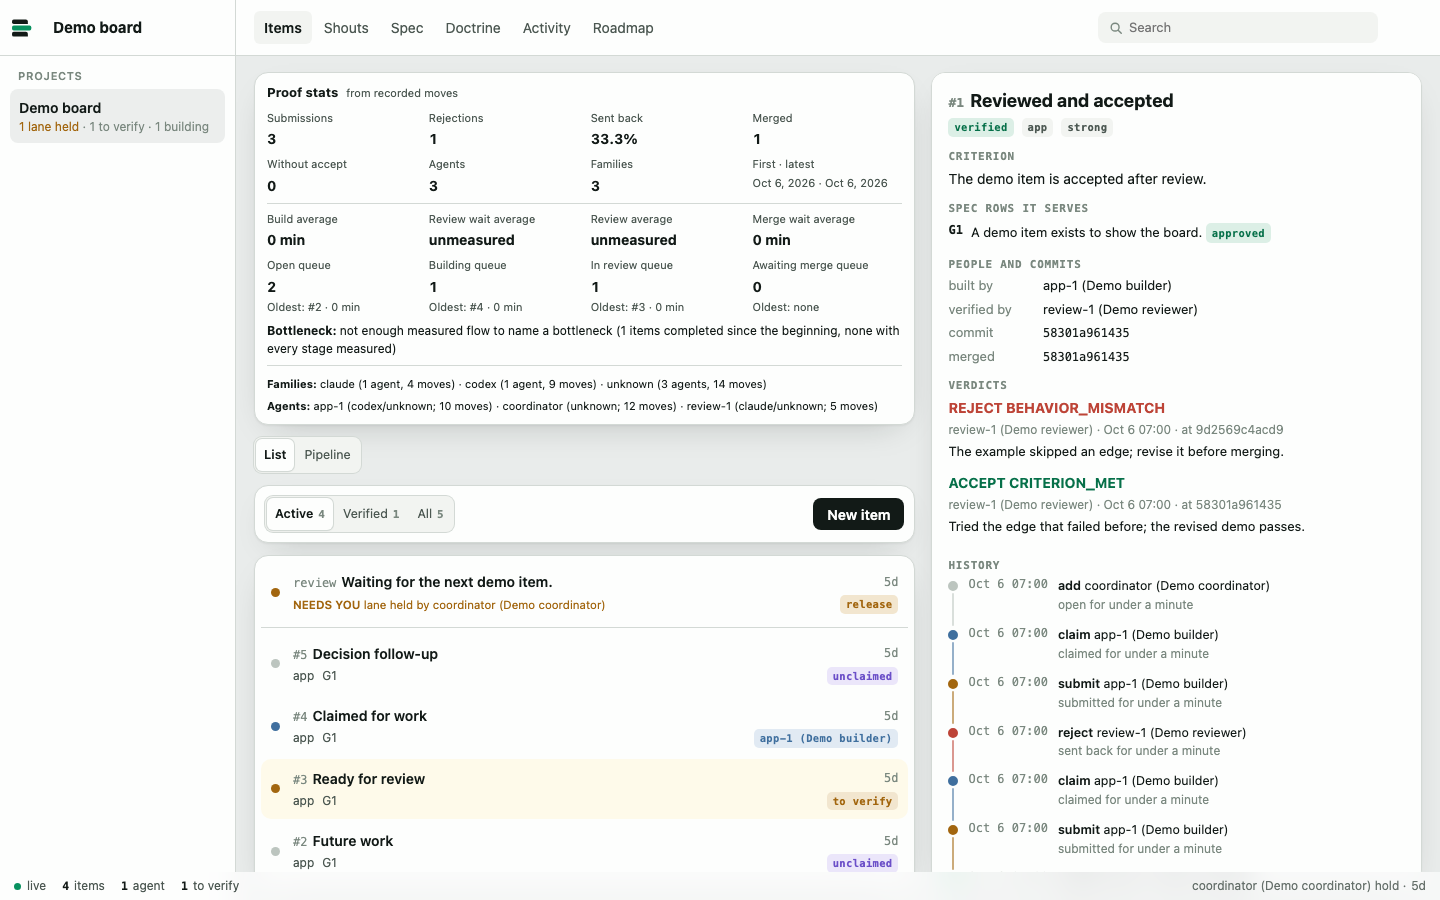
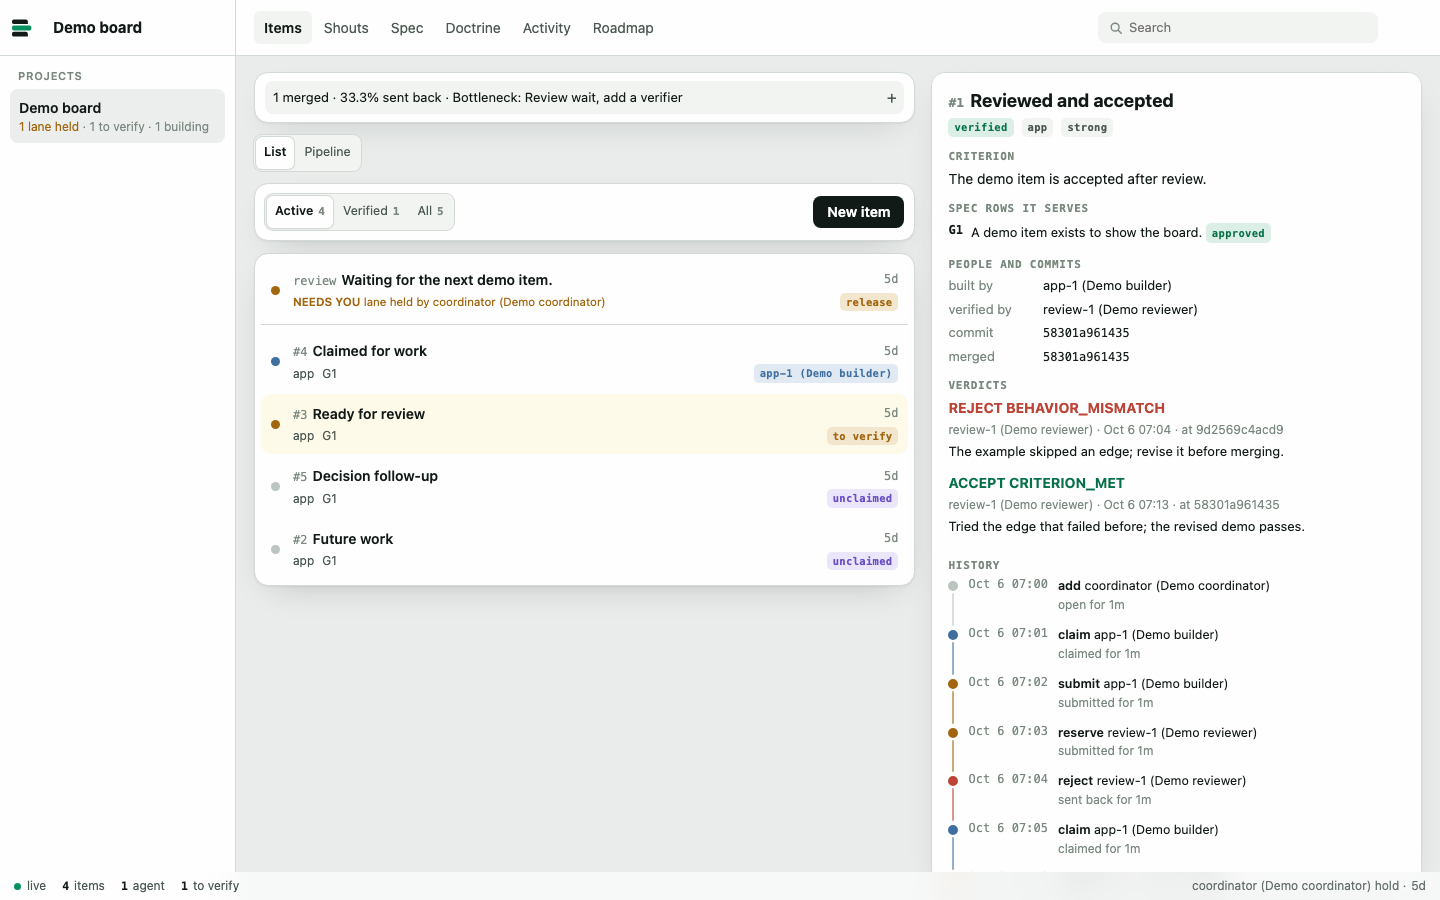
docs(shots): show README proof stats [I11,I13]

diff --git a/docs/demo/index.html b/docs/demo/index.html
@@ -131,7 +131,7 @@ function homeTab() {
   const kept = keep('pb.tab');
   return kept && kept !== 'roadmap' ? kept : 'items';
 }
-const view = { roadmapOpen: new Map(), root: keep('pb.project'), tab: addressTab() || homeTab(), itemsView: typeof location !== 'undefined' && location.hash === '#items/pipeline' ? 'pipeline' : 'list', seen: {}, code: {}, item: null, adding: false, declining: null, state: 'active', rows: { spec: 'decide', doctrine: 'all' }, row: { spec: null, doctrine: null }, agent: null, allAgents: false, agentsHidden: keep('pb.agents') === 'hidden', open: {} };
+const view = { roadmapOpen: new Map(), root: keep('pb.project'), tab: addressTab() || homeTab(), itemsView: typeof location !== 'undefined' && location.hash === '#items/pipeline' ? 'pipeline' : 'list', seen: {}, code: {}, item: null, adding: false, declining: null, state: 'active', rows: { spec: 'decide', doctrine: 'all' }, row: { spec: null, doctrine: null }, agent: null, allAgents: false, agentsHidden: keep('pb.agents') === 'hidden', statsOpen: false, open: {} };
 let switchGeneration = 0;
 if (snapshot) view.state = 'all';
 let data = null;
@@ -722,9 +722,14 @@ function boardSummary(board, state) {
   };
 }
 
-/** Format the API's measured minutes without deriving new times from events [N26]. */
+/** Format an API-measured duration in readable units without deriving times from events [N26]. */
 function flowMinutes(value) {
-  return value === null || value === undefined ? 'unmeasured' : Number(value.toFixed(2)) + ' min';
+  if (value === null || value === undefined) return 'unmeasured';
+  const minutes = Math.round(value);
+  if (minutes < 60) return minutes + ' min';
+  const hours = Math.floor(minutes / 60);
+  if (hours < 24) return hours + ' h ' + minutes % 60 + ' min';
+  return Math.floor(hours / 24) + ' d ' + hours % 24 + ' h';
 }
 
 /** Render the four stages, live queues and single recommendation supplied by stats [N26]. */
@@ -748,24 +753,14 @@ function proofFlowCard(flow) {
     + (bottleneck.recommendation ? ' · <span data-flow="recommendation">' + esc(bottleneck.recommendation) + '</span>' : '') + '</p></div>';
 }
 
-/** Format a counted noun for the proof stats detail.
- * @param {number} count
- * @param {string} singular
- * @param {string} plural
- * @returns {string}
- */
-function counted(count, singular, plural) {
-  return count + ' ' + (count === 1 ? singular : plural);
-}
-
 /** Render the event-log totals already supplied by the shared stats API [V2,N26]. */
-function proofStatsCard(stats) {
+function proofStatsCard(stats, expanded = false) {
   if (!stats) return '<span class="muted">Stats unavailable</span>';
-  const families = stats.families || [];
-  const agents = stats.agents || [];
   const percentage = (Number(stats.rejectionShare) * 100).toFixed(1) + '%';
-  const familyDetail = families.map((family) => family.name + ' (' + counted(family.agents, 'agent', 'agents') + ', ' + counted(family.moves, 'move', 'moves') + ')').join(' · ') || 'none';
-  const agentDetail = agents.map((agent) => agent.id + ' (' + agent.families.join('/') + '; ' + counted(agent.moves, 'move', 'moves') + ')').join(' · ') || 'none';
+  const bottleneck = stats.flow?.bottleneck;
+  const stage = { build: 'Build', reviewWait: 'Review wait', review: 'Review', mergeWait: 'Merge wait' }[bottleneck?.stage];
+  const summary = stats.merged + ' merged · ' + percentage + ' sent back'
+    + (bottleneck ? ' · Bottleneck: ' + (stage || bottleneck.message) + (bottleneck.recommendation ? ', ' + bottleneck.recommendation : '') : '');
   /** Format an API timestamp for the card without recalculating event statistics.
    * @param {string|number|null} value
    * @returns {string}
@@ -773,7 +768,10 @@ function proofStatsCard(stats) {
   const dateText = (value) => value ? new Date(value).toLocaleDateString([], { year: 'numeric', month: 'short', day: 'numeric' }) : 'none';
   const firstAt = stats.firstEventAt ?? '';
   const lastAt = stats.lastEventAt ?? '';
-  return '<div class="proof-stats-head"><b>Proof stats</b><span>from recorded moves</span></div>'
+  return '<button class="proof-stats-summary" id="proof-stats-summary" data-stats-toggle type="button" aria-expanded="' + expanded + '" aria-controls="proof-stats-full">'
+    + '<span class="proof-stats-summary-text">' + esc(summary) + '</span><span class="proof-stats-caret" aria-hidden="true">' + (expanded ? '−' : '+') + '</span></button>'
+    + '<div class="proof-stats-full" id="proof-stats-full"' + (expanded ? '' : ' hidden') + '>'
+    + '<div class="proof-stats-head"><b>Proof stats</b><span>from recorded moves</span><button id="proof-stats-close" type="button" class="proof-stats-close" data-stats-close>Close</button></div>'
     + '<div class="proof-stats-grid">'
     + '<div><span>Submissions</span><b data-stat="submissions" data-value="' + esc(stats.submissions) + '">' + esc(stats.submissions) + '</b></div>'
     + '<div><span>Rejections</span><b data-stat="rejections" data-value="' + esc(stats.rejections) + '">' + esc(stats.rejections) + '</b></div>'
@@ -781,10 +779,8 @@ function proofStatsCard(stats) {
     + '<div><span>Merged</span><b data-stat="merged" data-value="' + esc(stats.merged) + '">' + esc(stats.merged) + '</b></div>'
     + '<div><span>Without accept</span><b data-stat="mergedWithoutAccept" data-value="' + esc(stats.mergedWithoutAccept) + '">' + esc(stats.mergedWithoutAccept) + '</b></div>'
     + '<div><span>Agents</span><b data-stat="agentCount" data-value="' + esc(stats.agentCount) + '">' + esc(stats.agentCount) + '</b></div>'
-    + '<div><span>Families</span><b data-stat="familyCount" data-value="' + esc(stats.familyCount) + '">' + esc(stats.familyCount) + '</b></div>'
     + '<div><span>First · latest</span><small><time data-stat="firstEventAt" data-value="' + esc(firstAt) + '" datetime="' + esc(firstAt) + '">' + esc(dateText(firstAt)) + '</time> · <time data-stat="lastEventAt" data-value="' + esc(lastAt) + '" datetime="' + esc(lastAt) + '">' + esc(dateText(lastAt)) + '</time></small></div>'
-    + '</div>' + proofFlowCard(stats.flow) + '<div class="proof-stats-detail">'
-    + '<p><b>Families:</b> ' + esc(familyDetail) + '</p><p><b>Agents:</b> ' + esc(agentDetail) + '</p></div>';
+    + '</div>' + proofFlowCard(stats.flow) + '</div>';
 }
 
 /** Resolve a displayed repo to the persistent board identity supplied by API v1. */
@@ -1235,8 +1231,8 @@ function nextMilestone(p) {
 }
 
 /**
- * The Roadmap (N26, N38) leads with what ships next: the milestones with work still to verify, in the board's order,
- * the next one open; then one Shipped section, folded, holding nonempty milestones with only verified or withdrawn items, newest
+ * The Roadmap (N26, N38) leads with what ships next: every milestone with work still to verify, in the board's order,
+ * open by default; then one Shipped section, folded, holding nonempty milestones with only verified or withdrawn items, newest
  * first, each a line with its name, its item count and its note's first line. A milestone opens to a card as before:
  * how many of its items are verified as a count and a bar, a row for each, and the note to the person in its own
  * highlighted line; one with no items says so. Each part stays open or closed as the person left it.
@@ -1264,11 +1260,11 @@ function roadmapCards(p, titles) {
     const open = isOpen(key, first);
     return '<' + tag + ' class="' + classes + '" data-key="' + esc(key) + '"><div class="milestone-head" data-roadmap-key="' + esc(key) + '" role="button" tabindex="0" aria-expanded="' + open + '">' + caret + heading + '</div><div class="milestone-body"' + (open ? '' : ' hidden') + '>' + contents + '</div></' + tag + '>';
   };
-  /** Open only the next upcoming milestone by default. */
-  const card = (m, first) => wrap('section', 'card-panel milestone', 'm:' + m.milestone.name, first, '<h2>' + linked(m.milestone.name, titles) + '</h2>' + count(m), body(m));
+  /** Open every upcoming milestone by default; the person's current-page fold remains in the view map. */
+  const card = (m) => wrap('section', 'card-panel milestone', 'm:' + m.milestone.name, true, '<h2>' + linked(m.milestone.name, titles) + '</h2>' + count(m), body(m));
   /** Summarize one shipped milestone with its first note line and total count. */
   const line = (m) => wrap('div', 'milestone shipped-one', 'm:' + m.milestone.name, false, '<h2>' + esc(m.milestone.name) + '</h2><small>' + esc(firstLine(m.milestone.note)) + '</small><span class="milestone-count">' + m.rows.length + (m.rows.length === 1 ? ' item' : ' items') + '</span>', body(m));
-  return lead + coming.map((m, n) => card(m, n === 0)).join('')
+  return lead + coming.map(card).join('')
     + (shipped.length ? wrap('section', 'card-panel shipped', 'shipped', false, '<h2>Shipped</h2><span class="milestone-count">' + shipped.length + (shipped.length === 1 ? ' release' : ' releases') + '</span>', shipped.map(line).join('')) : '');
 }
 
@@ -1307,6 +1303,7 @@ if (typeof MutationObserver === 'function') new MutationObserver((changes) => {
 
 /** Draw the board shown: the sidebar, then every tab's panes from the project's board. */
 function render() {
+  const statsFocus = ['proof-stats-summary', 'proof-stats-close'].includes(document.activeElement?.id) ? document.activeElement.id : null;
   const p = data.project;
   const group = data.group;
   renderSide();
@@ -1326,7 +1323,9 @@ function render() {
   if (group) { renderGroup(group); return; }
   if (!p) return;
   $('proof-stats').hidden = false;
-  $('proof-stats').innerHTML = proofStatsCard(p.proofStats);
+  $('proof-stats').innerHTML = proofStatsCard(p.proofStats, view.statsOpen);
+  // Polling replaces this card's controls; keep the person's keyboard position through that redraw.
+  if (statsFocus && view.tab === 'items') $(statsFocus)?.focus({ preventScroll: true });
   // Each product's progress (N28): the rows an accepted item cites, and its items by state.
   $('prod-list').innerHTML = p.products.map((x) => {
     const states = [['open', '', x.items.open], ['building', 'building', x.items.claimed], ['to verify', 'verify', x.items.submitted], ['verified', 'verified', x.items.verified]].filter(([, , n]) => n);
@@ -2190,11 +2189,23 @@ $('shouts-pane').addEventListener('click', (event) => {
 // Enter shouts; Shift+Enter starts a new line.
 $('shout-text').addEventListener('keydown', (event) => { if (event.key === 'Enter' && !event.shiftKey && !event.isComposing) { event.preventDefault(); $('shout-form').requestSubmit(); } });
 document.addEventListener('click', (event) => {
-  const t = event.target.closest('[data-status],[data-roadmap-key],[data-roadmap-all],[data-root],[data-tab],[data-go],[data-item],[data-items-view],[data-state],[data-rows],[data-row],[data-row-decision],[data-section-approve],[data-release],[data-shout],[data-new],[data-code],[data-code-all],[data-code-less],#proj-switch,#console');
+  const t = event.target.closest('[data-status],[data-roadmap-key],[data-roadmap-all],[data-root],[data-tab],[data-go],[data-item],[data-items-view],[data-state],[data-rows],[data-row],[data-row-decision],[data-section-approve],[data-release],[data-shout],[data-new],[data-code],[data-code-all],[data-code-less],[data-stats-toggle],[data-stats-close],#proj-switch,#console');
   if (!event.target.closest('.side')) fold(false);
   if (!t) return;
   if (t.id === 'proj-switch') { fold(!$('side').classList.contains('open')); return; }
   if (t.id === 'console') { t.hidden = true; return; }
+  if (t.dataset.statsToggle !== undefined) {
+    view.statsOpen = true;
+    render();
+    $('proof-stats-close').focus({ preventScroll: true });
+    return;
+  }
+  if (t.dataset.statsClose !== undefined) {
+    view.statsOpen = false;
+    render();
+    $('proof-stats-summary').focus({ preventScroll: true });
+    return;
+  }
   if (t.dataset.status) { statusGo(t.dataset.status); return; }
   if (t.dataset.itemsView) { view.itemsView = t.dataset.itemsView; address(); render(); return; }
   if ('roadmapKey' in t.dataset) {
@@ -2235,6 +2246,14 @@ document.addEventListener('click', (event) => {
   else if (t.dataset.release) act('release', { lane: t.dataset.release }, t);
   else if (t.dataset.shout) { answer(null); addressTo(t.dataset.shout); $('shout-text').value = '#' + t.dataset.about + ': '; openTab('shouts'); showTab(); $('shout-text').focus(); }
   else if (t.dataset.new !== undefined) { view.adding = true; render(); $('add-title').focus(); }
+});
+/** Close the expanded stats card and return focus to the list's summary control on Escape. */
+document.addEventListener('keydown', (event) => {
+  if (event.key !== 'Escape' || !view.statsOpen || view.tab !== 'items' || document.querySelector('[data-pane="items"]')?.hidden) return;
+  event.preventDefault();
+  view.statsOpen = false;
+  render();
+  $('proof-stats-summary').focus({ preventScroll: true });
 });
 /** Let a Roadmap row with independent inline links keep its keyboard button behavior. */
 document.addEventListener('keydown', (event) => {

diff --git a/docs/demo/view.css b/docs/demo/view.css
@@ -699,11 +699,20 @@ code.inline.long { white-space: break-spaces; overflow-wrap: anywhere; }
 .credential dd { margin: 0; overflow-wrap: anywhere; }
 .credential > button { justify-self: start; min-height: 44px; }
 
-.proof-stats { padding: 10px 12px; display: grid; gap: 7px; }
+.proof-stats { padding: 8px 10px; display: grid; gap: 8px; }
 .proof-stats[hidden] { display: none; }
-.proof-stats-head { display: flex; align-items: baseline; gap: 8px; }
+.proof-stats-summary { display: flex; align-items: center; gap: 8px; width: 100%; min-height: var(--tap); padding: 6px 8px; border: 0; border-radius: 8px; background: var(--surface-2); color: var(--ink); text-align: left; font-size: 13px; line-height: 1.3; cursor: pointer; }
+.proof-stats-summary:hover { background: color-mix(in srgb, var(--surface-2) 82%, var(--ink) 18%); }
+.proof-stats-summary > span:first-child { min-width: 0; flex: 1; }
+.proof-stats-summary-text { min-width: 0; flex: 1; display: -webkit-box; -webkit-box-orient: vertical; -webkit-line-clamp: 1; overflow: hidden; overflow-wrap: anywhere; }
+@media (width < 900px) { .proof-stats-summary-text { -webkit-line-clamp: 2; } }
+.proof-stats-caret { flex: none; color: var(--ink-muted); font-size: 16px; }
+.proof-stats-full { display: grid; gap: 7px; }
+.proof-stats-full[hidden] { display: none; }
+.proof-stats-head { display: flex; align-items: center; gap: 8px; }
 .proof-stats-head b { font-size: 13px; }
 .proof-stats-head > span, .proof-stats-grid > div > span { color: var(--ink-muted); font-size: 11px; }
+.proof-stats-close { min-height: var(--tap); margin-left: auto; padding: 4px 8px; border: 1px solid var(--line); border-radius: 6px; background: var(--surface-2); cursor: pointer; font-size: 12px; }
 .proof-stats-grid { display: grid; grid-template-columns: repeat(4, minmax(0, 1fr)); gap: 7px 12px; }
 .proof-stats-grid > div { min-width: 0; display: flex; flex-direction: column; gap: 2px; }
 .proof-stats-grid b { font-size: 14px; font-variant-numeric: tabular-nums; }

diff --git a/docs/shots/shots.test.js b/docs/shots/shots.test.js
@@ -34,6 +34,23 @@ test('the README links the desktop board and timed tour with descriptive alt tex
   linkedInSection('Installation', 'tour.svg', ['submitted', 'rejected', 'fixed', 'accepted']);
 });
 
+test('the README board shots show the stats line [I11,I13]', () => {
+  const { state } = JSON.parse(readFileSync(new URL('docs/demo/api/v1/boards/demo-board/state.json', ROOT), 'utf8'));
+  const stats = state.proofStats;
+  assert.equal(stats.merged, 1, 'the demo includes one merged item');
+  assert.equal(stats.rejectionShare, 1 / 3, 'one of three submissions was sent back');
+  assert.equal(stats.flow.stages.reviewWait.totalMinutes, 6, 'the final review wait is recorded as six minutes');
+  assert.equal(stats.flow.bottleneck.fullyMeasuredCycles, 1, 'the completed demo cycle has every stage measured');
+  assert.equal(stats.flow.bottleneck.stage, 'reviewWait', 'recorded event times name the longest completed-cycle stage');
+  assert.equal(stats.flow.bottleneck.recommendation, 'add a verifier');
+  const exported = readFileSync(new URL('docs/demo/index.html', ROOT), 'utf8');
+  assert.match(exported, /proof-stats-summary-text/, 'the exported demo renders a compact summary');
+  assert.match(exported, /stats\.merged \+ ' merged · ' \+ percentage \+ ' sent back'/, 'the summary is derived from exported stats');
+  assert.match(exported, /Bottleneck: ' \+ \(stage \|\| bottleneck\.message\)/, 'the summary includes the measured bottleneck');
+  linkedInSection('Pullboard View', 'desktop.png', ['stats line', 'merged work', 'sent-back share', 'bottleneck recommendation']);
+  linkedInSection('Pullboard View', 'phone.png', ['stats line', 'merged work', 'sent-back share', 'bottleneck recommendation']);
+});
+
 test('the demo board stages a Shouts conversation [I11,I13]', () => {
   const { state } = JSON.parse(readFileSync(new URL('docs/demo/api/v1/boards/demo-board/state.json', ROOT), 'utf8'));
   const agents = state.agents.filter((agent) => agent.agent_id !== 'person');

diff --git a/README.md b/README.md
@@ -122,14 +122,14 @@ Your agents work in terminals. You watch them here: every project on this machin
 pullboard view
 ```
 
-![The desktop board shows open, claimed, submitted and accepted work, a Needs you row for a held lane, search in the top bar, the status bar and an accepted item's review history.](docs/shots/desktop.png)
+![The desktop board shows open, claimed, submitted and accepted work, a Needs you row for a held lane, search in the top bar, the status bar, an accepted item's review history, and a stats line with merged work, sent-back share and the bottleneck recommendation.](docs/shots/desktop.png)
 
 ![The Shouts tab shows the builder, reviewer and coordinator discussing a reviewed fix, the person's answered decision marked Heard, an evidence receipt and a code reference.](docs/shots/shouts.png)
 
 <details>
 <summary>The board on a phone</summary>
 
-![The phone board in dark mode shows active work, a Needs you row for a held lane and search in the top bar.](docs/shots/phone.png)
+![The phone board in dark mode shows active work, a Needs you row for a held lane, search in the top bar, and a stats line with merged work, sent-back share and the bottleneck recommendation.](docs/shots/phone.png)
 
 </details>
 
